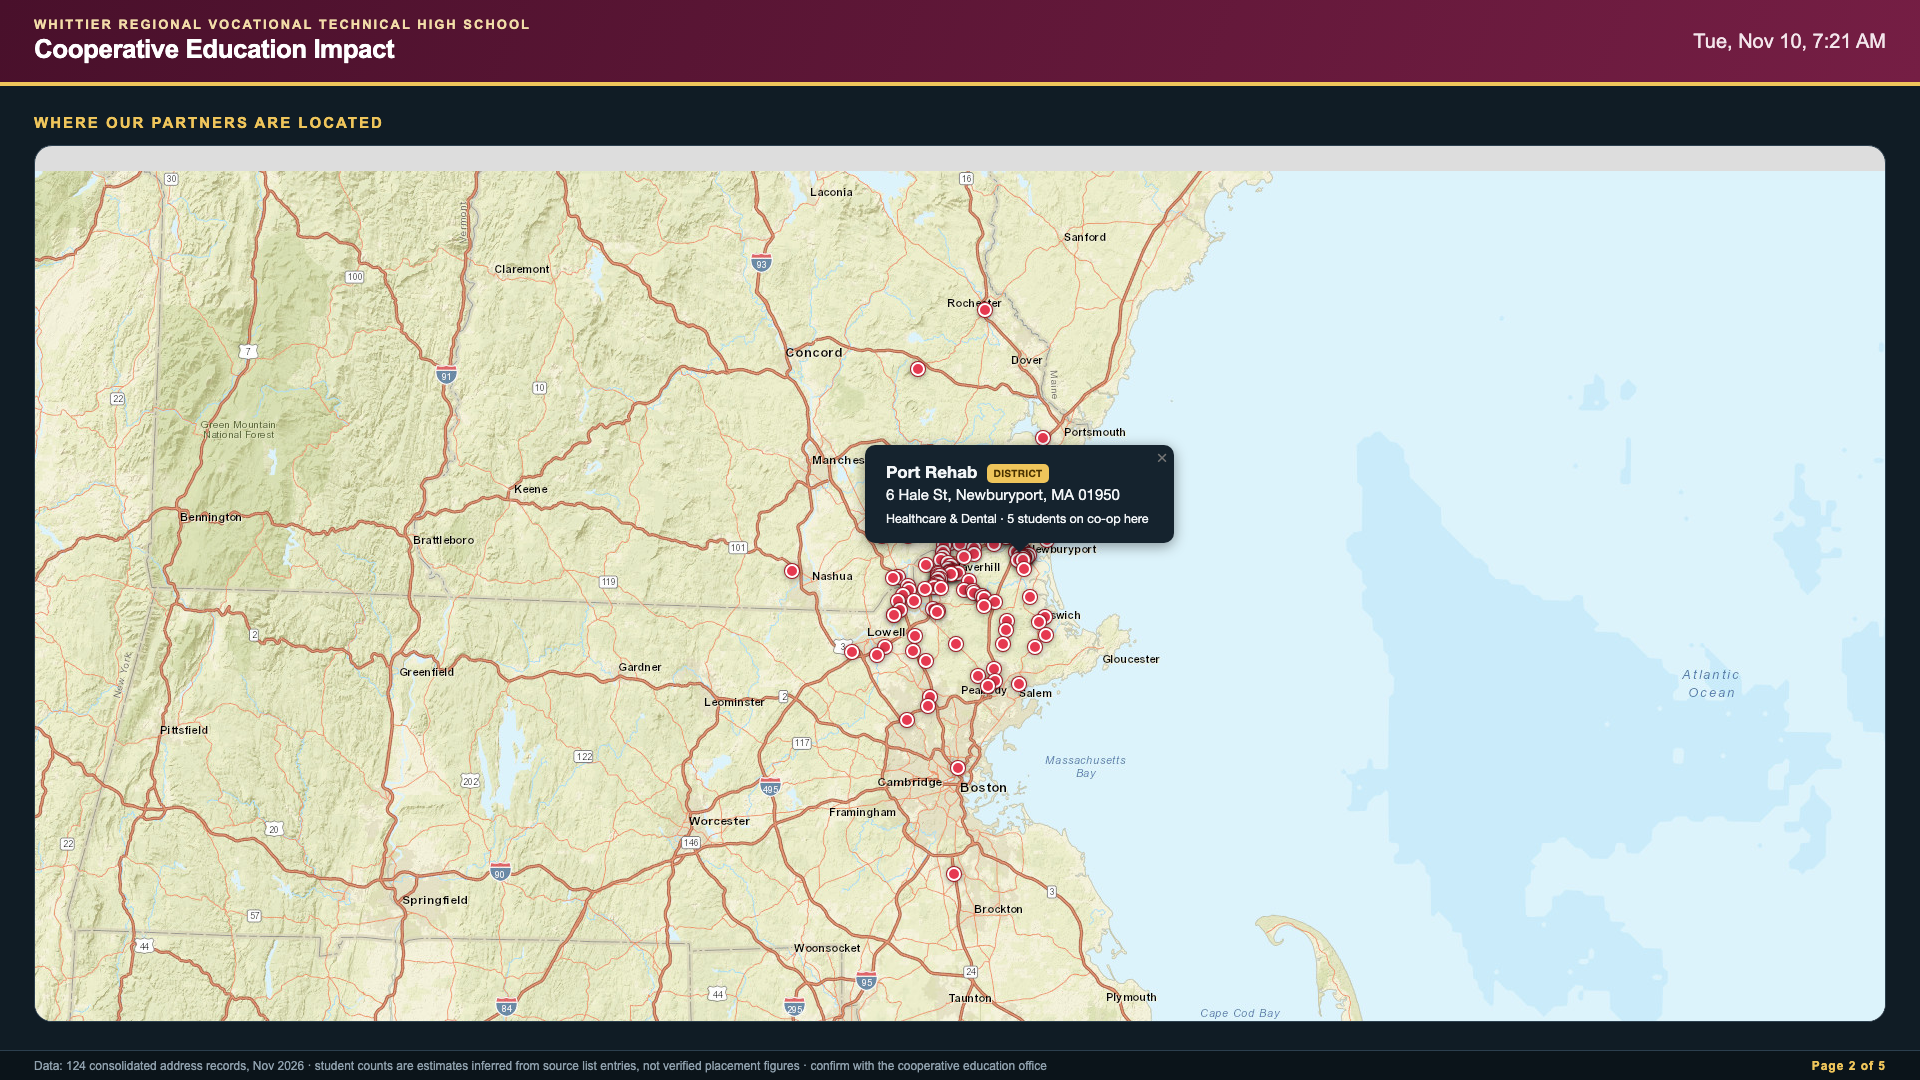
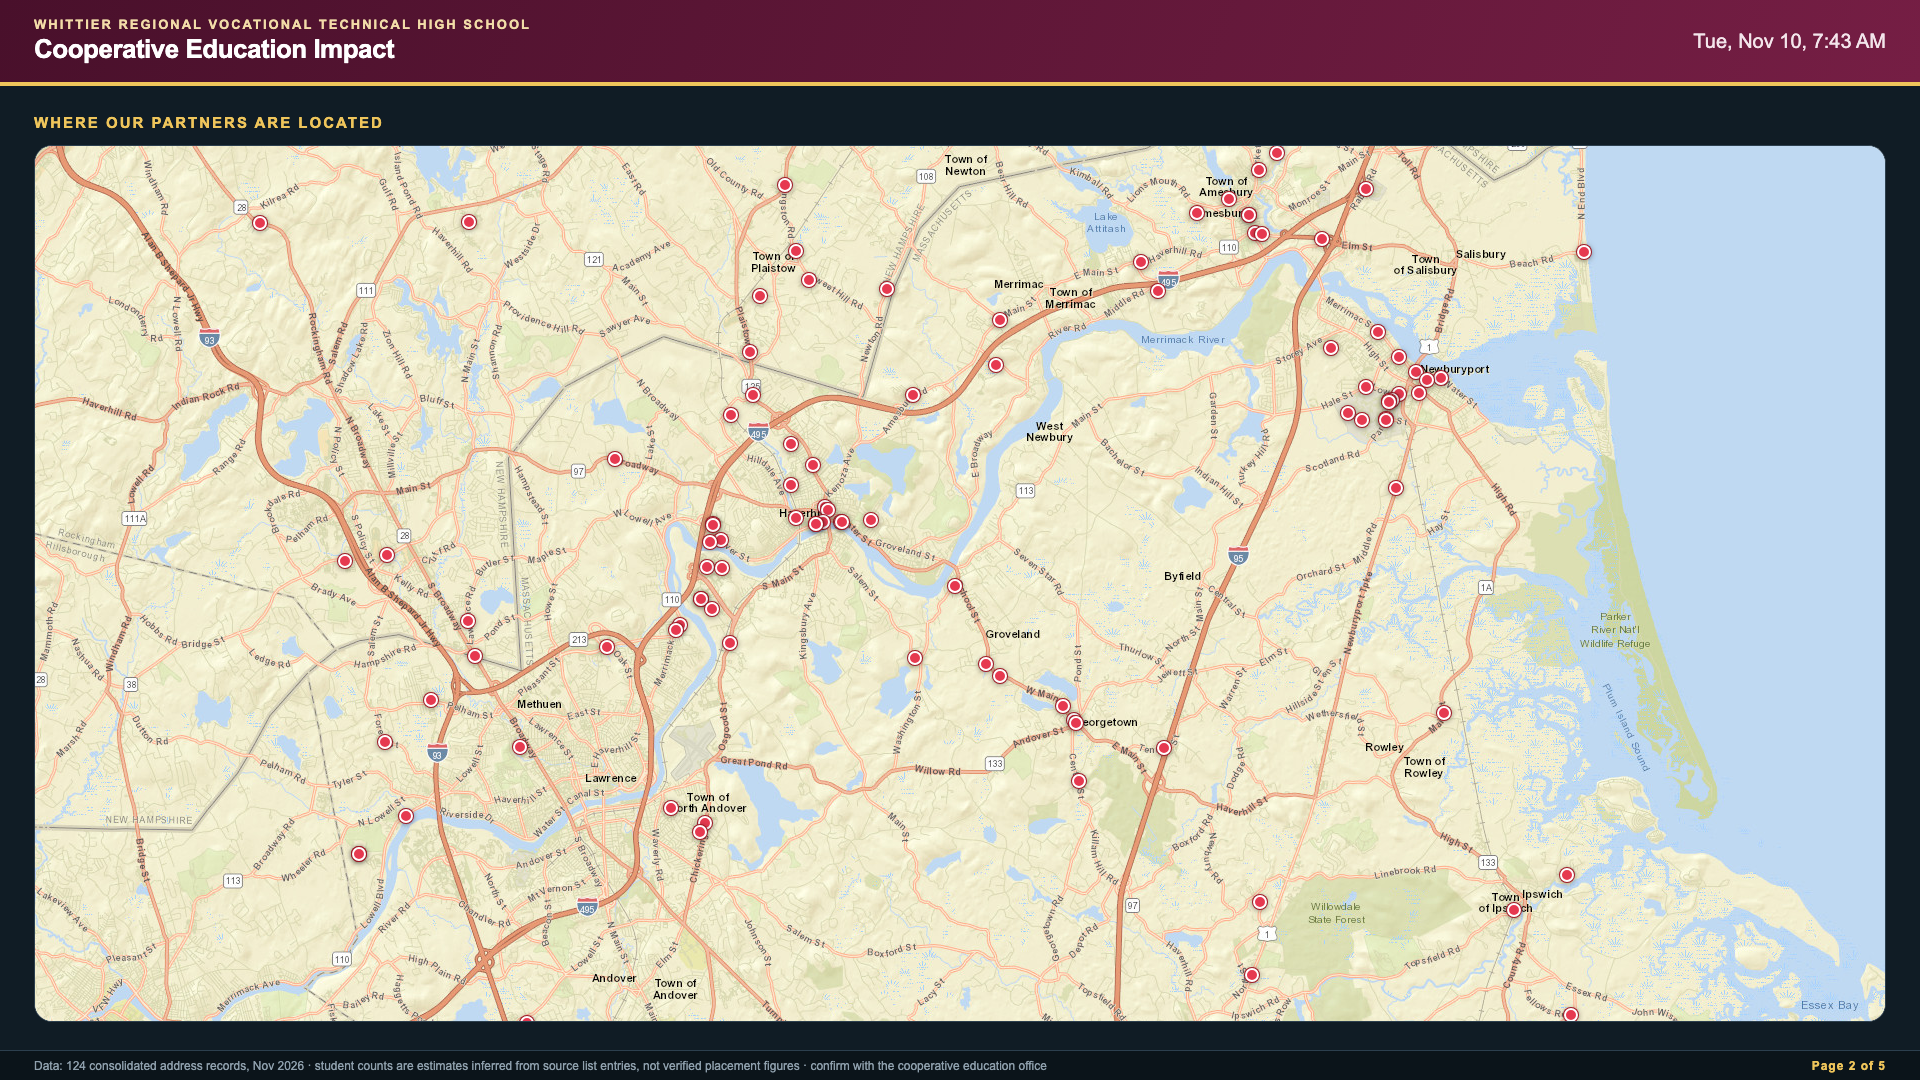
Add files via upload
Updated files

diff --git a/whittier_tech_coop_impact_dashboard_signage.html b/whittier_tech_coop_impact_dashboard_signage.html
@@ -160,7 +160,8 @@ try{
     layer.addLayer(m);
     markerByAddress.set(r.address,m);
   });
-  if(markerByAddress.size){map.fitBounds(L.featureGroup([...markerByAddress.values()]).getBounds().pad(.12),{maxZoom:11});}
+  map.invalidateSize();
+  map.setView([42.759,-71.031],12);
 
   tour=[...records].filter(r=>markerByAddress.has(r.address)).sort((a,b)=>b.students-a.students).slice(0,10);
   let tourTimer=null,tourIdx=0,activeMarker=null;
